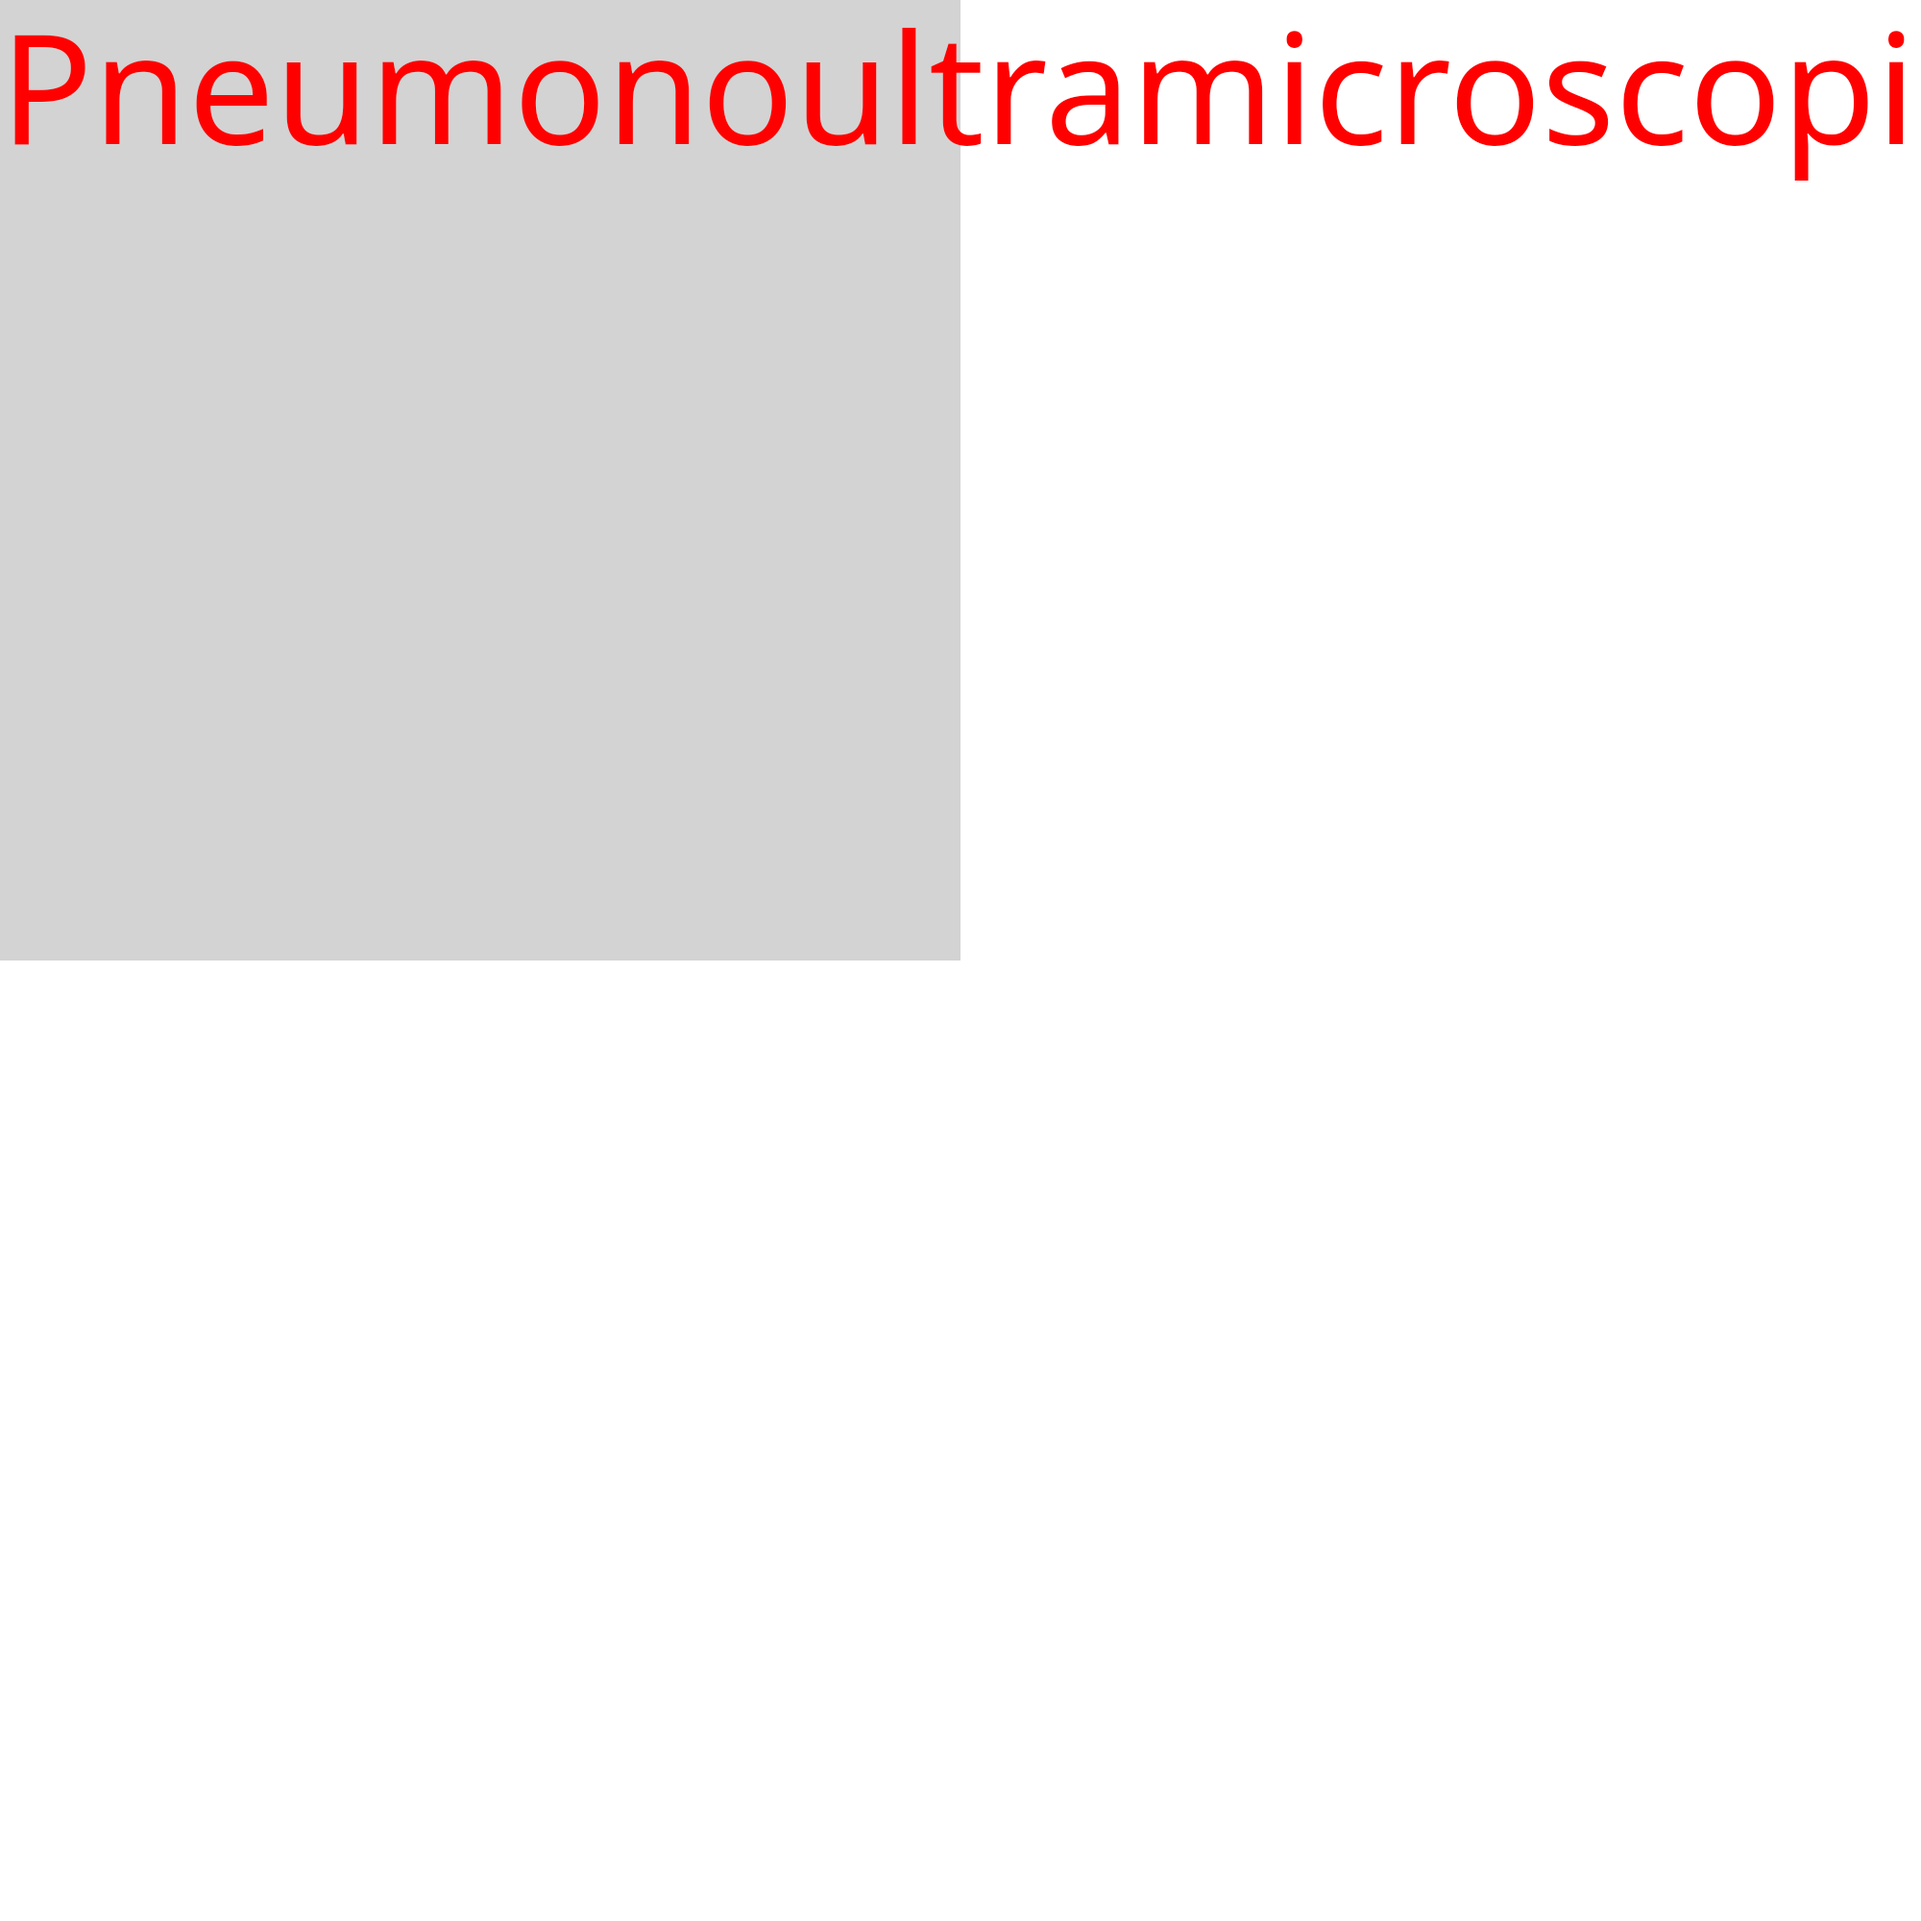
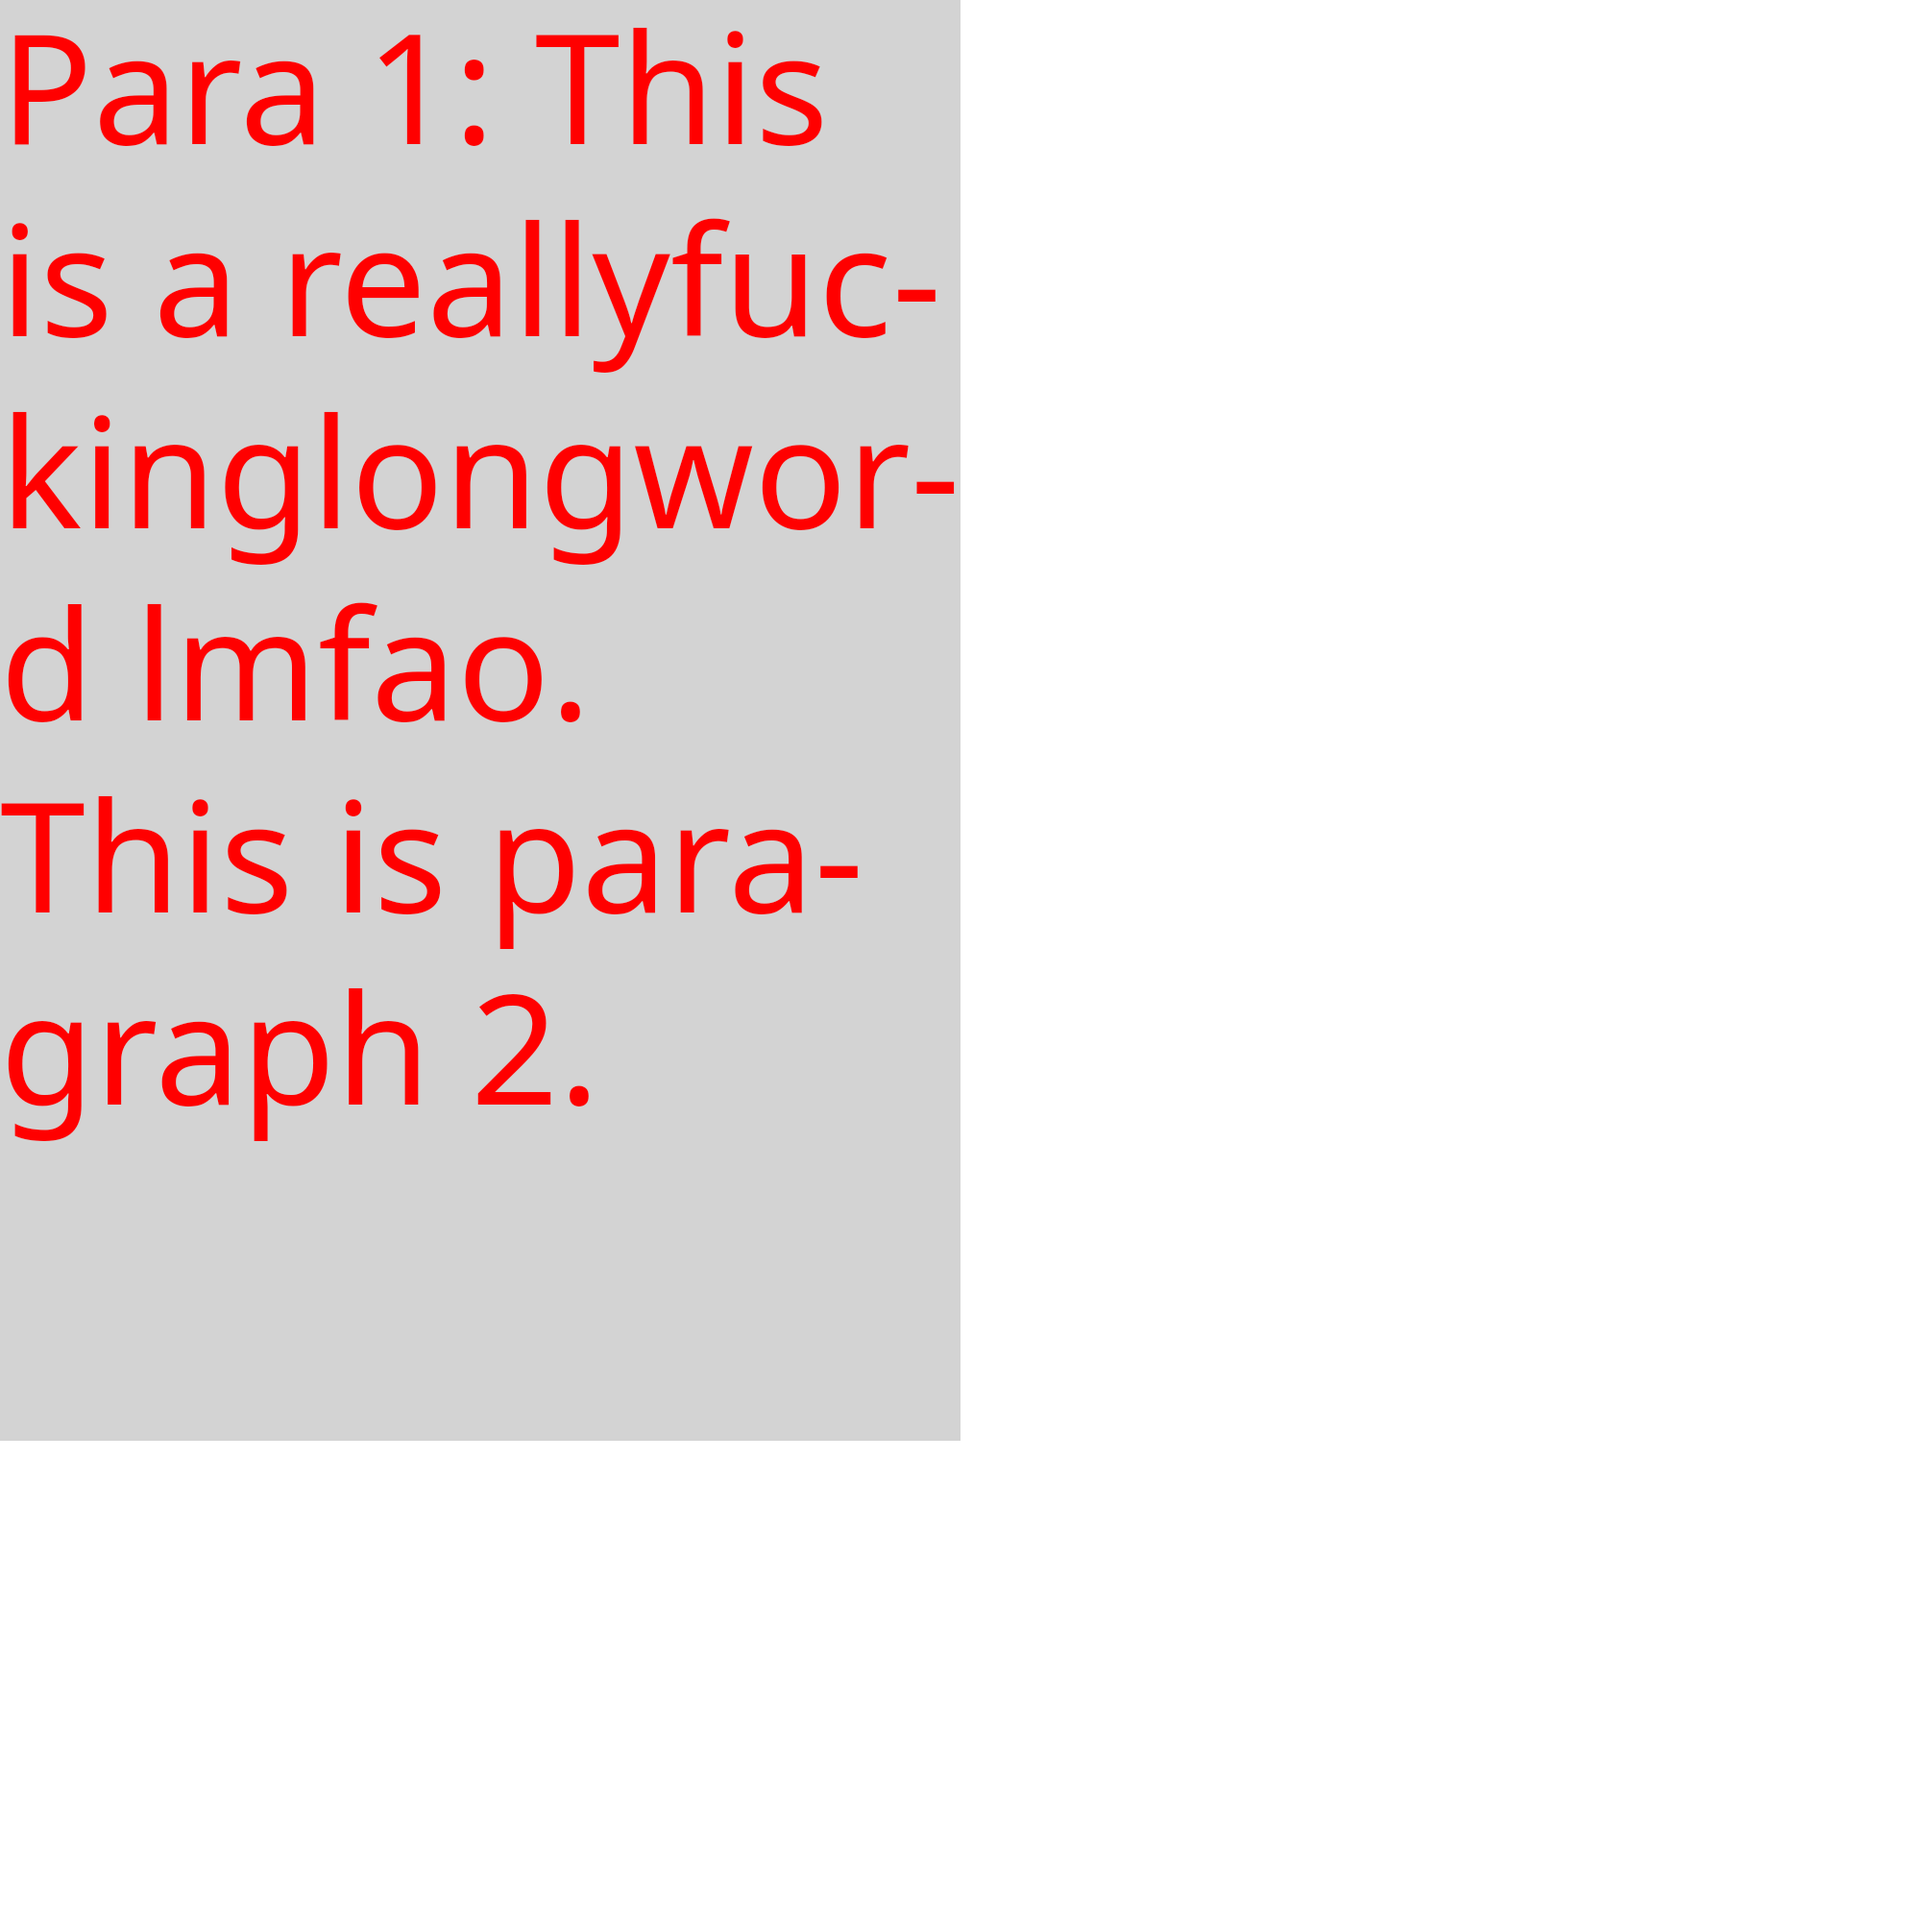
Update README.md

diff --git a/split.ts b/split.ts
@@ -62,6 +62,11 @@ export const textWrap = (config: TextWrapConfig): string[][] => {
   const { ctx } = config;
 
   const charCacheLookup = (char: string): number => {
+    if (char.length > 2) {
+      // cuz fucking two bit fuckers
+      throw new Error("only chars, not fucking strings");
+    }
+
     if (config.cache?.has(char)) {
       return config.cache.get(char)!;
     }
@@ -77,6 +82,7 @@ export const textWrap = (config: TextWrapConfig): string[][] => {
   ctx.font = `${config.fontSize}px ${config.font}`;
 
   const spaceWidth = charCacheLookup(" ");
+  const hypenWidth = charCacheLookup("-");
 
   const final: string[][] = [];
   const paragraphs: string[] = config.text.split("\n");
@@ -86,38 +92,53 @@ export const textWrap = (config: TextWrapConfig): string[][] => {
     const words: string[] = paragraph.split(" ");
     const lines: string[] = [];
     let line: string = "";
-    let lineWidth: number = 0;
+    let lineLength: number = 0;
     for (let j = 0; j < words.length; j++) {
-      line += words[j];
+      const currentWord = words[j];
+      const currentChars = [...currentWord];
+      const currentLengths = currentChars.map((character) =>
+        charCacheLookup(character)
+      );
+      const currentLength = currentLengths.reduce((a, c) => a + c, 0);
 
-      const currentWidth: number = charCacheLookup(words[j]);
-      lineWidth += currentWidth;
+      let newWord = "";
+      let newLength = 0;
+      let afterWord = "";
+      for (let k = 0; k < currentChars.length; k++) {
+        const char = currentChars[k];
+        const charLength = currentLengths[k];
 
-      const nextWord: string = words[j + 1];
-      if (!nextWord) {
-        lines.push(line);
-        break;
+        if (
+          lineLength + newLength + charLength + hypenWidth >=
+          config.maxWidth
+        ) {
+          if (currentLength < config.maxWidth / 3) {
+            newWord = "";
+            newLength = 0;
+            afterWord = currentWord;
+            break;
+          }
+          newWord += "-";
+          newLength += hypenWidth;
+          afterWord = currentChars.slice(k).join("");
+          break;
+        }
+        newWord += char;
+        newLength += charLength;
       }
 
-      const nextWidth: number = charCacheLookup(nextWord);
-      const addedWidth: number = spaceWidth + nextWidth;
+      line += newWord + " ";
+      lineLength += newLength + spaceWidth;
 
-      const futureWidth: number = lineWidth + addedWidth;
-
-      if (futureWidth > config.maxWidth) {
-        // dc current line
-        let check = !(ctx.measureText(line).width > config.maxWidth);
-        if (!check) {
-          line = line.split(" ").slice(0, -1).join(" ");
-        }
+      if (afterWord.length !== 0) {
+        words[j] = afterWord;
+        j--;
         lines.push(line);
-        line = check ? "" : words[j] + " ";
-        lineWidth = check ? 0 : currentWidth + spaceWidth;
-      } else {
-        line += " ";
-        lineWidth += spaceWidth;
+        line = "";
+        lineLength = 0;
       }
     }
+    lines.push(line);
     final.push(lines);
   }
 

diff --git a/splitTest.ts b/splitTest.ts
@@ -18,7 +18,8 @@ const ctx = canvas.getContext("2d");
   ctx.fillStyle = "white";
   ctx.fillRect(0, 0, 100, canvas.height);
 }
-const text = "Pneumonoultramicroscopicsilicovolcanoconiosis";
+const text = `Para 1: This is a reallyfuckinglongword lmfao.
+This is paragraph 2.`;
 
 const charLengthCache = generateCharLengths(ctx, "Noto Sans", 16);
 
@@ -32,7 +33,7 @@ const lines = textWrap({
 });
 
 ctx.fillStyle = "lightgrey";
-ctx.fillRect(0, 0, 100, 100);
+ctx.fillRect(0, 0, 100, 150);
 
 ctx.textBaseline = "top";
 const trimmed = truncateText({
@@ -41,7 +42,7 @@ const trimmed = truncateText({
   font: "Noto Sans",
   fontSize: 16,
   lineHeight: 1.25,
-  maxHeight: 100,
+  maxHeight: 150,
   ellipsis: "[…]",
 });
 

diff --git a/random.ts b/random.ts
@@ -1,0 +1,1 @@
+console.log("嶲".at(0));

diff --git a/README.md b/README.md
@@ -1,4 +1,8 @@
-# quotebot
+# Quote Bot
+
+A discord bot for generating picture quotes using TypeScript and Discord.js. Inspired by Make it a Quote#6660 - https://miq.moe/en-US. Uses [skia-canvas](https://www.npmjs.com/package/skia-canvas) for image generation w/ custom word/line splitting code.
+
+## Development
 
 To install dependencies:
 
